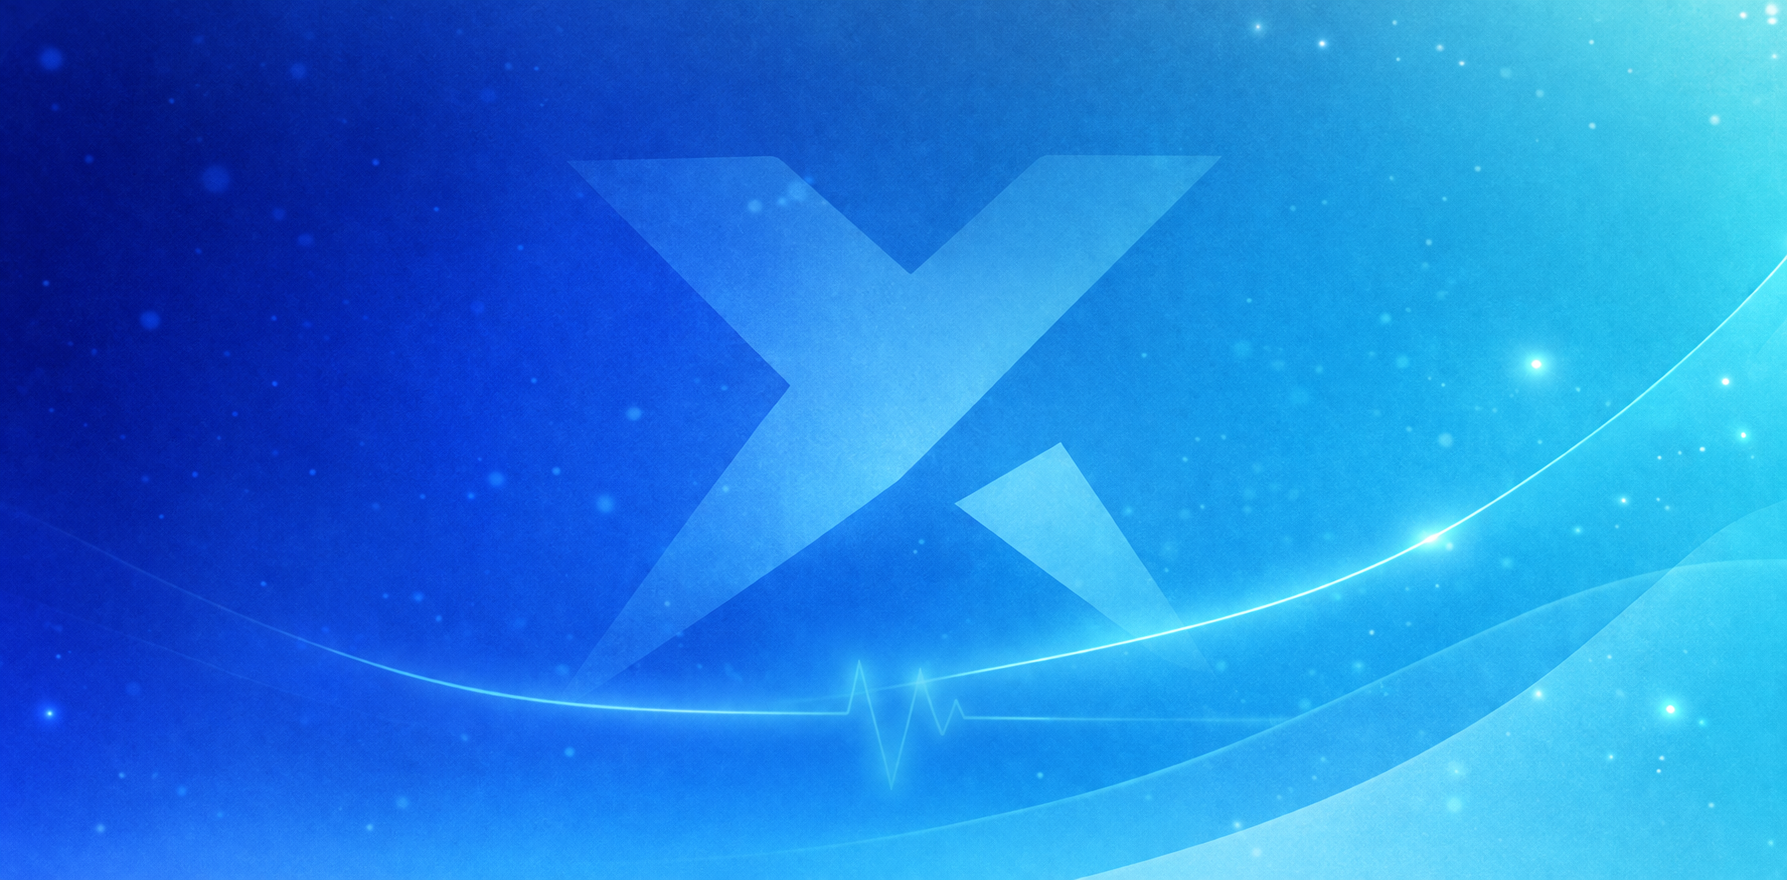
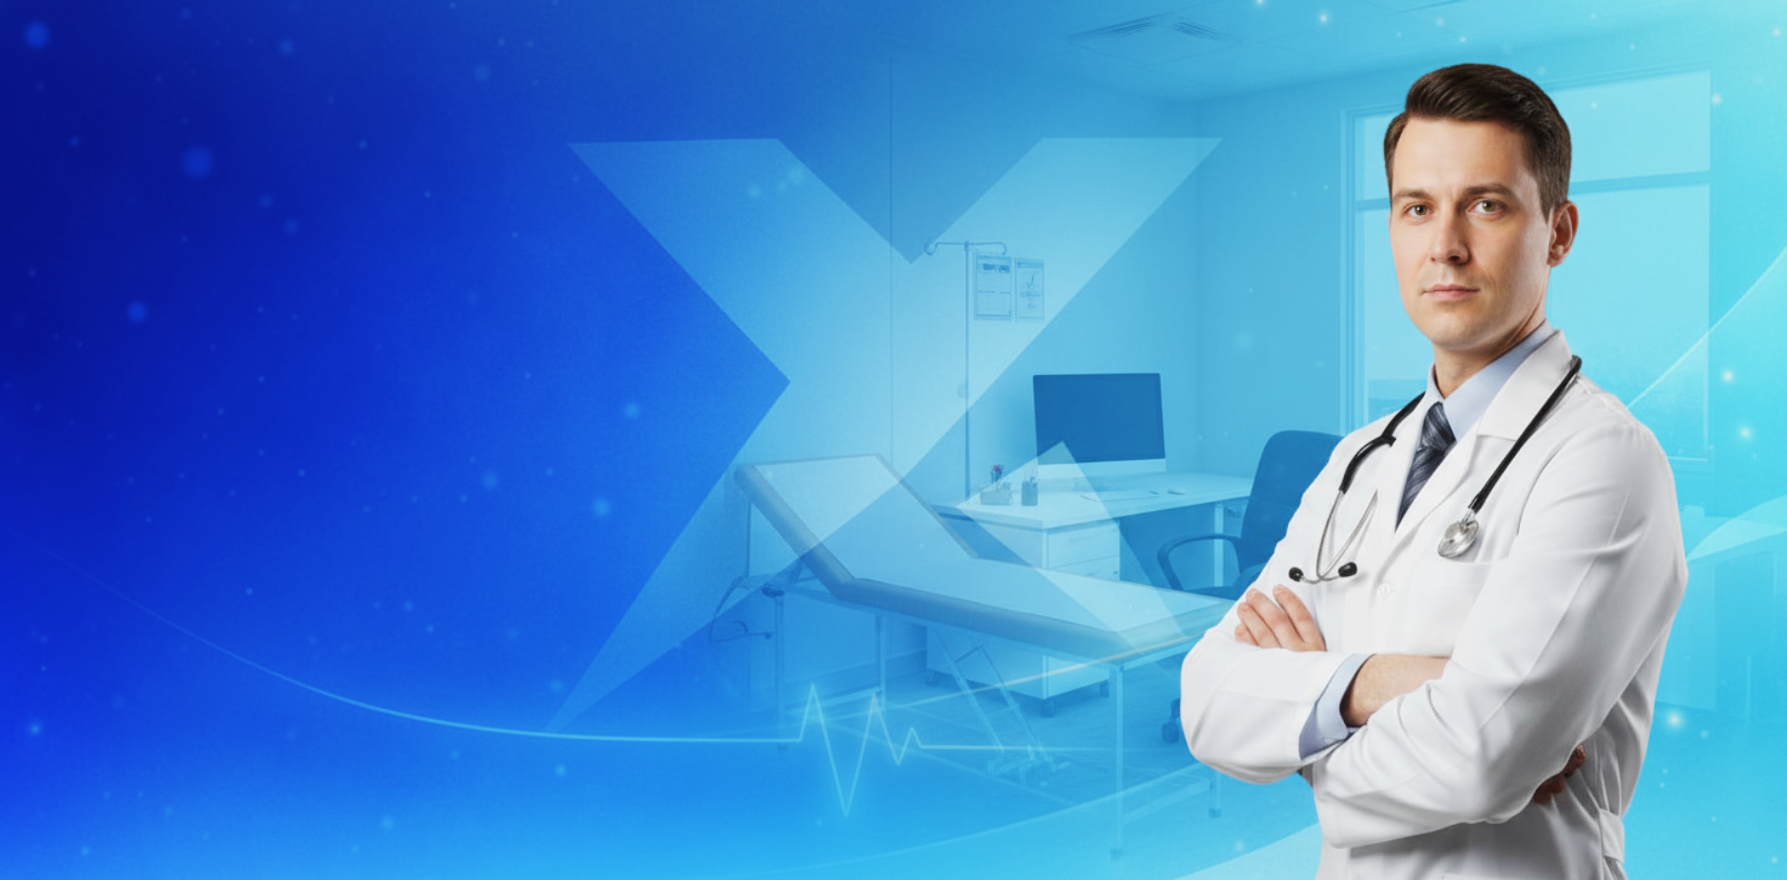
ajustes AppHeader + overlay + layout nueva consulta

diff --git a/app/api/cleanup-audios/route.ts b/app/api/cleanup-audios/route.ts
@@ -1,0 +1,99 @@
+import { NextResponse } from "next/server";
+import { supabaseAdmin } from "@/lib/supabase-admin";
+
+export async function GET(request: Request) {
+  const CRON_SECRET = process.env.CRON_SECRET;
+  const authHeader = request.headers.get("authorization");
+  const manualHeader = request.headers.get("x-cron-secret");
+
+  const isValidAuthRequest = CRON_SECRET && (
+    authHeader === CRON_SECRET ||
+    authHeader === `Bearer ${CRON_SECRET}`
+  );
+  const isValidManualRequest = CRON_SECRET && manualHeader === CRON_SECRET;
+
+  if (!isValidAuthRequest && !isValidManualRequest) {
+    return NextResponse.json({ error: "Unauthorized" }, { status: 401 });
+  }
+
+  try {
+    const sevenDaysAgo = new Date(Date.now() - 7 * 24 * 60 * 60 * 1000);
+    const filesToDelete: string[] = [];
+
+    const { data: folders, error: listError } = await supabaseAdmin
+      .storage
+      .from("audios-consultas")
+      .list("", { sortBy: { column: "name", order: "asc" } });
+
+    if (listError) {
+      console.error("Error listing folders:", listError);
+      throw listError;
+    }
+
+    if (!folders || folders.length === 0) {
+      return NextResponse.json({
+        success: true,
+        deleted: 0,
+        message: "No folders to process",
+      });
+    }
+
+    for (const folder of folders) {
+      if (!folder.name || folder.name.startsWith(".")) continue;
+
+      const { data: files, error: filesError } = await supabaseAdmin
+        .storage
+        .from("audios-consultas")
+        .list(folder.name, { sortBy: { column: "created_at", order: "asc" } });
+
+      if (filesError) {
+        console.error(`Error listing files in folder ${folder.name}:`, filesError);
+        continue;
+      }
+
+      if (!files || files.length === 0) continue;
+
+      for (const file of files) {
+        if (!file.created_at) continue;
+
+        const fileDate = new Date(file.created_at);
+        if (fileDate < sevenDaysAgo) {
+          filesToDelete.push(`${folder.name}/${file.name}`);
+        }
+      }
+    }
+
+    if (filesToDelete.length === 0) {
+      return NextResponse.json({
+        success: true,
+        deleted: 0,
+        message: "No files to delete",
+      });
+    }
+
+    const { error: deleteError } = await supabaseAdmin
+      .storage
+      .from("audios-consultas")
+      .remove(filesToDelete);
+
+    if (deleteError) {
+      console.error("Error deleting audio files:", deleteError);
+      throw deleteError;
+    }
+
+    return NextResponse.json({
+      success: true,
+      deleted: filesToDelete.length,
+      message: `Deleted ${filesToDelete.length} audio files older than 7 days`,
+    });
+  } catch (error: any) {
+    console.error("Error in cleanup-audios:", error);
+    return NextResponse.json(
+      {
+        success: false,
+        error: error?.message || "Unknown error",
+      },
+      { status: 500 }
+    );
+  }
+}

diff --git a/app/admin/usuarios/page.tsx b/app/admin/usuarios/page.tsx
@@ -292,6 +292,7 @@ export default function AdminUsuariosPage() {
   const [numeroColegiado, setNumeroColegiado] = useState("");
   const [emailProfesional, setEmailProfesional] = useState("");
   const [telefonoProfesional, setTelefonoProfesional] = useState("");
+  const [sexo, setSexo] = useState<string>("");
   const [loading, setLoading] = useState(false);
   const [error, setError] = useState<string | null>(null);
 
@@ -349,6 +350,7 @@ export default function AdminUsuariosPage() {
           email,
           password,
           rol,
+          sexo,
           nombre_profesional: nombreProfesional,
           numero_colegiado: numeroColegiado,
           email_profesional: emailProfesional,
@@ -373,6 +375,7 @@ export default function AdminUsuariosPage() {
       setNumeroColegiado("");
       setEmailProfesional("");
       setTelefonoProfesional("");
+      setSexo("");
 
       await cargarUsuarios();
     } catch (err) {
@@ -410,6 +413,7 @@ export default function AdminUsuariosPage() {
           subtitulo="Acceso restringido"
           nombreUsuario={profile.nombre || profile.email || "Usuario"}
           rol={profile.rol}
+          userSexo={profile.sexo}
           backHref="/dashboard"
           backLabel="Volver al panel"
         />
@@ -430,6 +434,7 @@ export default function AdminUsuariosPage() {
         nombreProfesional={profile.nombre_profesional || undefined}
         nombreUsuario={profile.nombre || profile.email || undefined}
         rol={profile.rol}
+        userSexo={profile.sexo}
         backHref="/dashboard"
         backLabel="Volver al panel"
       />
@@ -500,6 +505,16 @@ export default function AdminUsuariosPage() {
                 onChange={(e) => setTelefonoProfesional(e.target.value)}
                 className="w-full rounded-xl border border-gray-300 px-4 py-3 text-gray-900 outline-none focus:border-gray-400"
               />
+
+              <select
+                value={sexo}
+                onChange={(e) => setSexo(e.target.value)}
+                className="w-full rounded-xl border border-gray-300 bg-white px-4 py-3 text-gray-900 outline-none focus:border-gray-400"
+              >
+                <option value="">Seleccionar sexo</option>
+                <option value="hombre">Hombre</option>
+                <option value="mujer">Mujer</option>
+              </select>
             </div>
 
             <div className="mt-4">

diff --git a/components/AppHeader.tsx b/components/AppHeader.tsx
@@ -13,6 +13,7 @@ type AppHeaderProps = {
   backHref?: string;
   backLabel?: string;
   acciones?: React.ReactNode;
+  userSexo?: string | null;
 };
 
 export default function AppHeader({
@@ -22,8 +23,13 @@ export default function AppHeader({
   backHref,
   backLabel = "Volver",
   acciones,
+  userSexo,
 }: AppHeaderProps) {
   const router = useRouter();
+
+  const backgroundImage = userSexo?.toLowerCase() === "mujer"
+    ? "url('/premium-medica.png')"
+    : "url('/premium-medico.png')";
 
   async function handleLogout() {
     const { supabase } = await import("@/lib/supabase");
@@ -34,21 +40,21 @@ export default function AppHeader({
 
   return (
     <header className="relative mb-0 w-full">
-      <div className="relative w-full overflow-hidden">
+      <div className="relative w-full overflow-hidden min-h-[260px] sm:min-h-[320px]">
         <div
           className="absolute inset-0"
           style={{
-            backgroundImage: "url('/premium-medical.png')",
-            backgroundSize: "cover",
-            backgroundPosition: "center top",
+            backgroundImage,
+            backgroundSize: "110%",
+            backgroundPosition: "70% top",
             backgroundRepeat: "no-repeat",
           }}
         />
 
-        <div className="absolute inset-0 bg-gradient-to-r from-[#0f2f7a]/78 via-[#2563eb]/26 to-transparent" />
-        <div className="absolute inset-x-0 bottom-0 h-16 bg-gradient-to-b from-transparent via-white/18 to-[#f8fafc]" />
+        <div className="absolute inset-x-0 bottom-0 h-44 bg-gradient-to-b from-transparent via-[#f8fafc]/35 to-[#f8fafc]" />
+        <div className="absolute inset-x-0 bottom-0 h-24 bg-gradient-to-t from-[#f8fafc]/70 to-transparent" />
 
-        <div className="relative w-full px-4 pb-14 pt-6 sm:px-6 sm:pb-16 sm:pt-8">
+        <div className="relative w-full px-4 pb-24 pt-10 sm:px-6 sm:pb-16 sm:pt-8">
           <button
             onClick={handleLogout}
             className="absolute right-4 top-6 rounded-xl border border-white/20 bg-white/8 px-3 py-1.5 text-xs font-medium text-white/90 backdrop-blur-sm transition hover:bg-white/12 hover:text-white sm:right-6 sm:top-8"

diff --git a/lib/get-user-profile.ts b/lib/get-user-profile.ts
@@ -10,6 +10,7 @@ export type UserProfile = {
   numero_colegiado: string | null;
   email_profesional: string | null;
   telefono_profesional: string | null;
+  sexo: string | null;
 };
 
 export async function getUserProfile(): Promise<UserProfile | null> {
@@ -25,7 +26,7 @@ export async function getUserProfile(): Promise<UserProfile | null> {
   const { data, error } = await supabase
     .from("usuarios")
     .select(
-      "id, email, nombre, rol, activo, nombre_profesional, numero_colegiado, email_profesional, telefono_profesional"
+      "id, email, nombre, rol, activo, nombre_profesional, numero_colegiado, email_profesional, telefono_profesional, sexo"
     )
     .eq("id", user.id)
     .maybeSingle();
@@ -41,6 +42,7 @@ export async function getUserProfile(): Promise<UserProfile | null> {
       numero_colegiado: null,
       email_profesional: null,
       telefono_profesional: null,
+      sexo: null,
     };
   }
 
@@ -54,5 +56,6 @@ export async function getUserProfile(): Promise<UserProfile | null> {
     numero_colegiado: data.numero_colegiado,
     email_profesional: data.email_profesional,
     telefono_profesional: data.telefono_profesional,
+    sexo: data.sexo,
   };
 }

diff --git a/app/pacientes/[id]/consultas/[consultaId]/page.tsx b/app/pacientes/[id]/consultas/[consultaId]/page.tsx
@@ -455,6 +455,7 @@ export default function ConsultaPage() {
           nombreProfesional={userProfile?.nombre_profesional || undefined}
           nombreUsuario={userProfile?.nombre || undefined}
           rol={userProfile?.rol}
+          userSexo={userProfile?.sexo}
           backHref={`/pacientes/${pacienteId}`}
           backLabel="Volver a la ficha"
         />
@@ -477,6 +478,7 @@ export default function ConsultaPage() {
           nombreProfesional={userProfile?.nombre_profesional || undefined}
           nombreUsuario={userProfile?.nombre || undefined}
           rol={userProfile?.rol}
+          userSexo={userProfile?.sexo}
           backHref={`/pacientes/${pacienteId}`}
           backLabel="Volver a la ficha"
         />
@@ -536,6 +538,7 @@ export default function ConsultaPage() {
         nombreProfesional={userProfile?.nombre_profesional || undefined}
         nombreUsuario={userProfile?.nombre || undefined}
         rol={userProfile?.rol}
+        userSexo={userProfile?.sexo}
         acciones={
           <div className="flex gap-2">
             <Link

diff --git a/app/pacientes/[id]/page.tsx b/app/pacientes/[id]/page.tsx
@@ -129,6 +129,7 @@ export default function PacientePage() {
           nombreProfesional={userProfile?.nombre_profesional || undefined}
           nombreUsuario={userProfile?.nombre || undefined}
           rol={userProfile?.rol}
+          userSexo={userProfile?.sexo}
           acciones={
             <div className="flex gap-3">
               <Link
@@ -165,6 +166,7 @@ export default function PacientePage() {
           nombreProfesional={userProfile?.nombre_profesional || undefined}
           nombreUsuario={userProfile?.nombre || undefined}
           rol={userProfile?.rol}
+          userSexo={userProfile?.sexo}
           acciones={
             <div className="flex gap-3">
               <Link
@@ -206,6 +208,7 @@ export default function PacientePage() {
         nombreProfesional={userProfile?.nombre_profesional || undefined}
         nombreUsuario={userProfile?.nombre || undefined}
         rol={userProfile?.rol}
+        userSexo={userProfile?.sexo}
         acciones={
           <div className="flex gap-3">
             <Link

diff --git a/app/pacientes/nuevo/NuevoPacientePageClient.tsx b/app/pacientes/nuevo/NuevoPacientePageClient.tsx
@@ -142,6 +142,7 @@ export default function NuevoPacientePageClient() {
         nombreProfesional={userProfile?.nombre_profesional || undefined}
         nombreUsuario={userProfile?.nombre || undefined}
         rol={userProfile?.rol}
+        userSexo={userProfile?.sexo}
         acciones={
           <div className="flex flex-wrap items-center gap-2">
             {returnTo ? (
@@ -174,7 +175,7 @@ export default function NuevoPacientePageClient() {
       />
       <div className="pointer-events-none fixed inset-x-0 bottom-0 z-0 h-[28vh] bg-gradient-to-t from-transparent via-white/25 to-white" />
 
-      <div className="relative z-10 mx-auto max-w-4xl">
+      <div className="relative z-10 mx-auto max-w-4xl -mt-4">
         <section className="rounded-2xl bg-white border border-gray-200 shadow-sm p-4 sm:p-6">
           <form className="space-y-5" onSubmit={handleSubmit}>
             <div>

diff --git a/app/nueva-consulta/NuevaConsultaPageClient.tsx b/app/nueva-consulta/NuevaConsultaPageClient.tsx
@@ -623,6 +623,7 @@ export default function NuevaConsultaPageClient() {
       nombreProfesional={userProfile?.nombre_profesional || undefined}
       nombreUsuario={userProfile?.nombre || undefined}
       rol={userProfile?.rol}
+      userSexo={userProfile?.sexo}
       acciones={
         <a
           href="/dashboard"
@@ -634,7 +635,7 @@ export default function NuevaConsultaPageClient() {
       }
     />
 
-  <div className="mx-auto -mt-10 max-w-4xl px-4 pb-6 sm:px-6 sm:pb-6 lg:px-8 lg:pb-8">
+  <div className="mx-auto -mt-20 max-w-4xl px-4 pb-6 sm:px-6 sm:pb-6 lg:px-8 lg:pb-8">
 <section className="relative pt-0 pb-6 sm:pb-6">
   <div className="relative z-10 -mt-8 mb-6 rounded-[28px] border border-white/60 bg-white/95 p-4 shadow-[0_20px_50px_rgba(15,47,122,0.12)] backdrop-blur-sm">
     <div className="flex flex-col gap-2 sm:flex-row sm:items-center sm:justify-between">

diff --git a/app/api/admin/usuarios/route.ts b/app/api/admin/usuarios/route.ts
@@ -11,6 +11,7 @@ type CreateUserBody = {
   numero_colegiado?: string;
   email_profesional?: string;
   telefono_profesional?: string;
+  sexo?: string;
 };
 
 function getSupabaseServerClient(accessToken: string) {
@@ -85,6 +86,7 @@ export async function POST(req: Request) {
     const numero_colegiado = body.numero_colegiado?.trim() || null;
     const email_profesional = body.email_profesional?.trim() || null;
     const telefono_profesional = body.telefono_profesional?.trim() || null;
+    const sexo = body.sexo?.trim() || null;
 
     if (!nombre) {
       return NextResponse.json(
@@ -136,6 +138,7 @@ export async function POST(req: Request) {
       nombre,
       rol,
       activo: true,
+      sexo,
       nombre_profesional,
       numero_colegiado,
       email_profesional,

diff --git a/app/dashboard/page.tsx b/app/dashboard/page.tsx
@@ -145,6 +145,7 @@ if (userError || !user) {
         nombreProfesional={userProfile?.nombre_profesional || undefined}
         nombreUsuario={userProfile?.nombre || undefined}
         rol={userProfile?.rol}
+        userSexo={userProfile?.sexo}
         acciones={
           <div className="flex items-center gap-2">
             <Link

diff --git a/app/pacientes/seleccionar/SeleccionarPacientePageClient.tsx b/app/pacientes/seleccionar/SeleccionarPacientePageClient.tsx
@@ -152,6 +152,7 @@ export default function SeleccionarPacientePageClient() {
         nombreProfesional={userProfile?.nombre_profesional || undefined}
         nombreUsuario={userProfile?.nombre || undefined}
         rol={userProfile?.rol}
+        userSexo={userProfile?.sexo}
       />
 
       <div className="mx-auto max-w-4xl">
